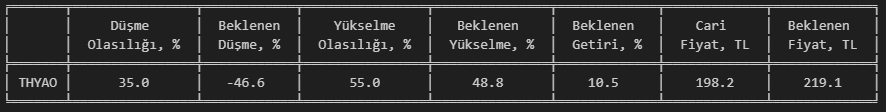
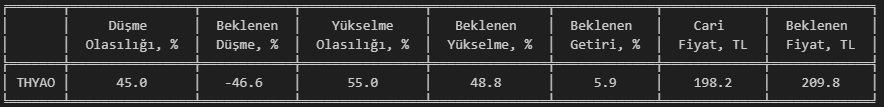
duzeltme: 4.6.2.

diff --git a/README.md b/README.md
@@ -819,10 +819,10 @@ Aşağıda, `THYAO.IS` hisse senedi için 12 analistin 1 yıllık fiyat tahminle
 
 ![](/imgs/senaryo_ongoru.PNG)
 
-İki tane durum belirleyelim: Yükselecek ve Düşecek. Bu olasılıklar ise sırasıyla %55 ve %45 olsun. Bu senaryoda beklenen getiri, $E[r_{THYAO}] = (0.55 x 0.4879) + (0.35 x (-0.4659)) = 0.105$ veya %10.5'tir.
+İki tane durum belirleyelim: Yükselecek ve Düşecek. Bu olasılıklar ise sırasıyla %55 ve %45 olsun. Bu senaryoda beklenen getiri, $E[r_{THYAO}] = (0.55 x 0.4879) + (0.45 x (-0.4659)) = 0.059$ veya %5.9'dur.
 
 ```python
-durum_dusecek_olasilik = 0.35
+durum_dusecek_olasilik = 0.45
 getiri_dusecek = -0.4659
 durum_yukselecek_olasilik = 0.55
 getiri_yukselecek = 0.4879
